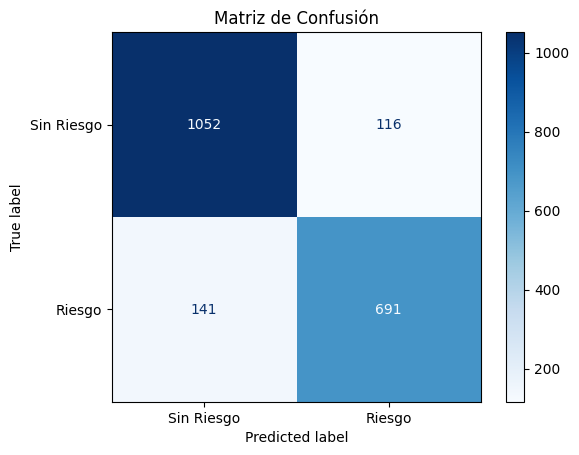
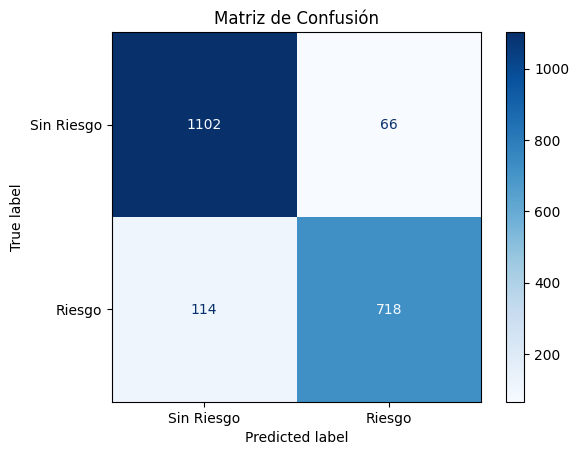
Update data and model

diff --git a/ml_module/src/etl.py b/ml_module/src/etl.py
@@ -18,18 +18,10 @@ cat_features = ["tipo_proceso", "tipo_ultima_actuacion", "ciudad", "despacho", "
 num_features = ["dias_sin_actividad", "num_partes", "total_actuaciones",
                 "frecuencia_actualizaciones", "tiene_termino_legal"]
 
-# Feature engineering: pct de plazo consumido (proxy)
-# no tenemos el plazo real por fila, así que creamos uno basado en reglas
-plazo_map = {
-    "Auto admisorio demanda": 14, "Traslado excepciones": 14, "Traslado recurso": 7,
-    "Sentencia primera instancia": 14, "Notificación por estado": 4, "Auto de pruebas": 14,
-    "Fijación audiencia": 7, "Providencia interlocutoria": 0,
-    "Constancia secretarial": 0, "Oficio comisorio": 0,
-}
-df["plazo_calendario"] = df["tipo_ultima_actuacion"].map(plazo_map)
+# Feature engineering: pct de plazo consumido (usando el plazo real generado)
 df["pct_plazo_consumido"] = np.where(
-    df["plazo_calendario"] > 0,
-    df["dias_sin_actividad"] / df["plazo_calendario"],
+    df["plazo_dias_calendario"] > 0,
+    df["dias_sin_actividad"] / df["plazo_dias_calendario"],
     0
 )
 df["pct_plazo_consumido"] = df["pct_plazo_consumido"].clip(0, 5)
@@ -51,7 +43,7 @@ df_encoded = pd.get_dummies(df, columns=["tipo_proceso", "ciudad", "plan_suscrip
                                           "tipo_ultima_actuacion"], drop_first=True)
 
 # Drop original columns
-drop_cols = ["despacho", "plazo_calendario"]
+drop_cols = ["despacho", "plazo_dias_calendario"]
 feature_cols = [c for c in df_encoded.columns if c not in drop_cols + ["riesgo_vencimiento"]]
 
 X = df_encoded[feature_cols].values.astype(np.float64)
@@ -78,7 +70,6 @@ X_train, X_test, y_train, y_test = train_test_split(
 joblib.dump(scaler, PROCESSED_PATH / "scaler.pkl")
 joblib.dump(feature_cols, PROCESSED_PATH / "feature_cols.pkl")
 joblib.dump(despacho_order, PROCESSED_PATH / "despacho_order.pkl")
-joblib.dump(plazo_map, PROCESSED_PATH / "plazo_map.pkl")
 joblib.dump(num_idx, PROCESSED_PATH / "num_idx.pkl")
 
 np.save(PROCESSED_PATH / "X_train.npy", X_train)

diff --git a/ml_module/api/router.py b/ml_module/api/router.py
@@ -22,7 +22,6 @@ feature_cols = None
 scaler = None
 num_idx = None
 metadata = None
-plazo_map = None
 despacho_order = None
 
 prediction_counter = Counter("predictions_total", "Total de predicciones realizadas")
@@ -31,7 +30,7 @@ latency_histogram = Histogram("prediction_latency_seconds", "Latencia de predicc
                                buckets=[0.01, 0.05, 0.1, 0.25, 0.5, 1.0, 2.0])
 
 def load_model():
-    global model, feature_cols, scaler, num_idx, metadata, plazo_map, despacho_order
+    global model, feature_cols, scaler, num_idx, metadata, despacho_order
     try:
         model_path = PROCESSED_PATH / "best_model.pkl"
         if model_path.exists():
@@ -45,7 +44,6 @@ def load_model():
         feature_cols = joblib.load(PROCESSED_PATH / "feature_cols.pkl")
         scaler = joblib.load(PROCESSED_PATH / "scaler.pkl")
         num_idx = joblib.load(PROCESSED_PATH / "num_idx.pkl")
-        plazo_map = joblib.load(PROCESSED_PATH / "plazo_map.pkl")
         despacho_order = joblib.load(PROCESSED_PATH / "despacho_order.pkl")
 
         meta_path = PROCESSED_PATH / "metadata.json"
@@ -73,11 +71,11 @@ PLAN_LIMITS = {
 plt_map = {
     "Auto admisorio demanda": 14,
     "Traslado excepciones": 14,
-    "Traslado recurso": 7,
+    "Traslado recurso": 8,
     "Sentencia primera instancia": 14,
-    "Notificación por estado": 4,
+    "Notificación por estado": 5,
     "Auto de pruebas": 14,
-    "Fijación audiencia": 7,
+    "Fijación audiencia": 8,
     "Providencia interlocutoria": 0,
     "Constancia secretarial": 0,
     "Oficio comisorio": 0,

diff --git a/ml_module/src/generate_data.py b/ml_module/src/generate_data.py
@@ -109,6 +109,7 @@ for _ in range(N_SAMPLES):
         "frecuencia_actualizaciones": frecuencia,
         "tiene_termino_legal": 1 if tiene_termino else 0,
         "plan_suscripcion": plan,
+        "plazo_dias_calendario": plazo_dias_calendario,
         "riesgo_vencimiento": riesgo,
     })
 
